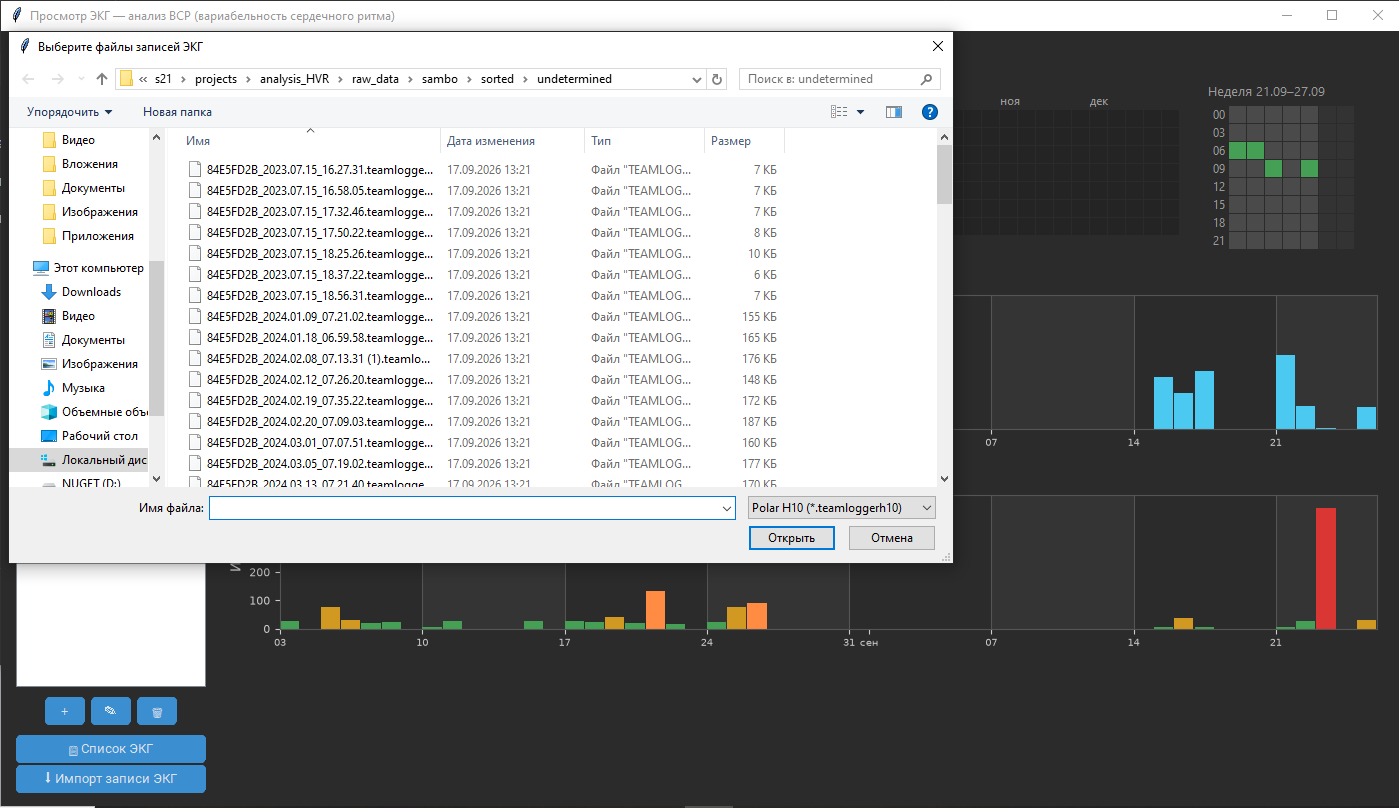
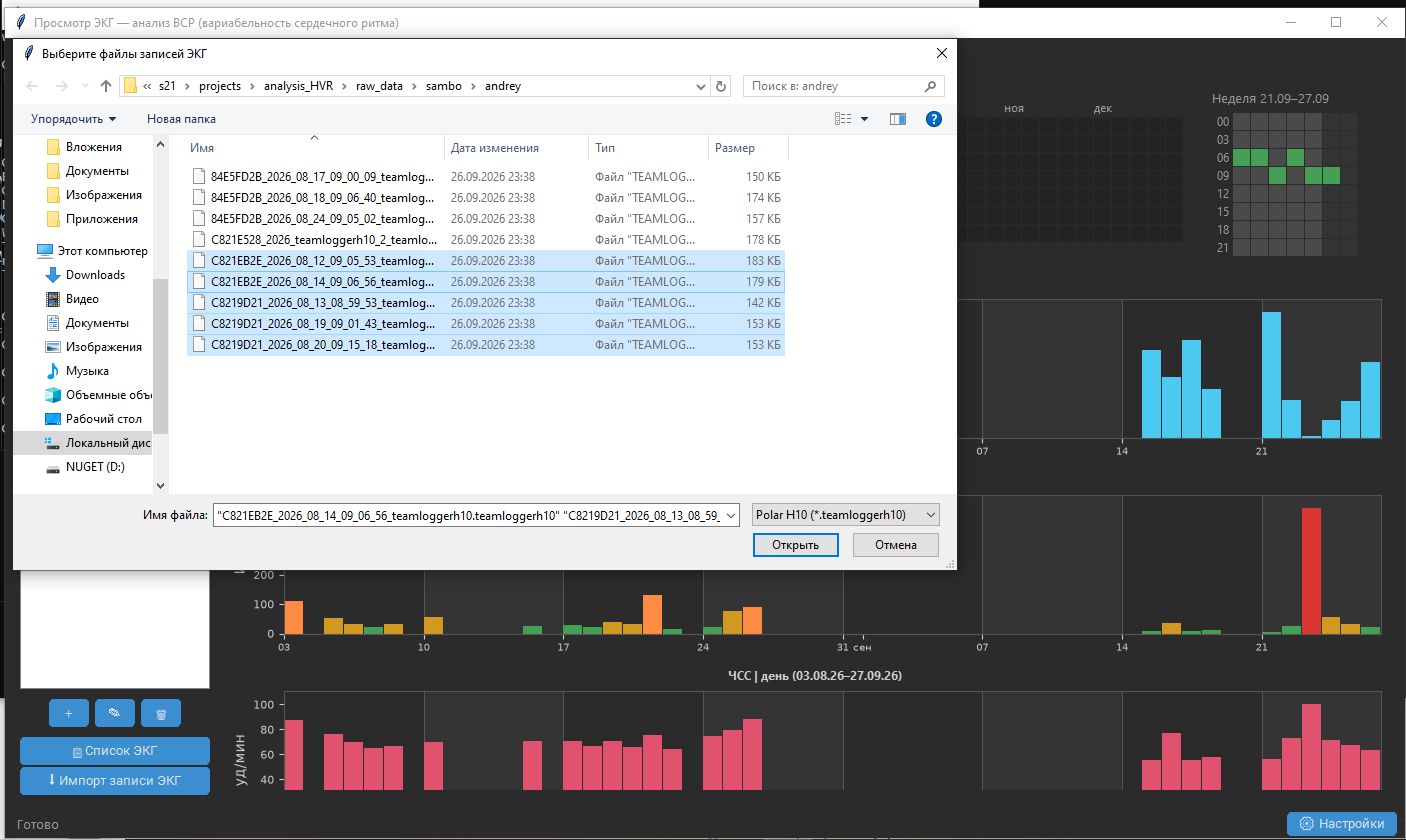
develop_refactor: обновил help

diff --git a/src/dialogs/help.py b/src/dialogs/help.py
@@ -54,17 +54,34 @@ CONTENT = [
     ("img", ("year_heatmap.png", "Годовая тепловая карта")),
     ("img", ("week_heatmap.png", "Недельная тепловая карта")),
 
-    ("h2", "ГРАФИКИ TP И ИНДЕКСА СТРЕССА"),
-    ("p", "Клик, колесо мыши и перетаскивание — масштабирование и перемещение. "
-          "ПКМ (правый клик) — сброс масштаба к диапазону данных."),
-    ("img", ("charts.png", "Графики TP и индекса стресса")),
+    ("h2", "ГРАФИКИ МЕТРИК"),
+    ("p", "Отображаются четыре показателя ВСР: TP, Стресс, ЧСС и RMSSD. "
+          "Колесо мыши — вертикальная прокрутка списка графиков (если они не "
+          "помещаются в окно). ЛКМ + колесо — изменение масштаба по времени "
+          "(зум). ПКМ (правый клик) — сброс масштаба к диапазону данных. "
+          "Перетаскивание левой кнопкой — перемещение по оси времени."),
+    ("img", ("charts.png", "Графики метрик: TP, Стресс, ЧСС, RMSSD")),
+
+    ("h2", "НАСТРОЙКИ МЕТРИК"),
+    ("p", "Кнопка «⚙ Настройки» в правом нижнем углу открывает окно "
+          "«Настройки отображения метрик». Можно отметить, какие метрики "
+          "показывать, и кнопками ▲/▼ изменить их порядок на графиках. "
+          "Изменения применяются после «Сохранить»."),
+    ("img", ("metric_settings.png", "Окно настроек отображения метрик")),
+
+    ("h2", "КОММЕНТАРИИ К МЕТРИКАМ"),
+    ("p", "Двойной клик левой кнопкой по столбику на графике метрики открывает "
+          "окно комментария для этой даты. Комментарий сохраняется в базе и "
+          "показывается: жёлтым треугольником над столбцом, а также в "
+          "всплывающей подсказке при наведении."),
 
     ("h2", "ЖУРНАЛ ЭКГ"),
     ("p", "Колонка «Сходство» — % биологической схожести записи с шаблоном атлета "
           "(низкая подсвечивается: жёлтый < порога, красный < критического). Если "
           "сходство невозможно вычислить, вместо процента стоит короткая причина: "
           "«нет ЭКГ» (в файле только RR, без ЭКГ-сигнала), «нет шаблона» или "
-          "«плохой сигн.». Сортировка — кликом по заголовку или кнопками. "
+          "«плохой сигн.». Сортировка — кликом по заголовку столбца (повторный клик "
+          "меняет направление). "
           "«🎯 Улучшить сходство» открывает список всех атлетов по убыванию схожести "
           "для переназначения записи. «🗑 Удалить» — удалить запись, "
           "«Экспорт в файл» — сохранить raw-данные."),

diff --git a/src/dialogs/ecg_journal.py b/src/dialogs/ecg_journal.py
@@ -38,9 +38,9 @@ class ECGJournal(BaseDialog):
       * последние: limit по времени импорта (updated_at DESC), конкретный атлет
         или все (из главной формы).
 
-    Сортировка — кликом по заголовку любой колонки, а также кнопками
-    «По времени снятия» / «По времени импорта». Записи с низкой биологической
-    схожестью с шаблоном подсвечиваются цветом (< WARN — жёлтым, < CRIT — красным).
+    Сортировка — кликом по заголовку любой колонки (повторный клик меняет
+    направление). Записи с низкой биологической схожестью с шаблоном
+    подсвечиваются цветом (< WARN — жёлтым, < CRIT — красным).
     """
 
     DISPLAY_COLS = ("Атлет", "Прибор", "Время", "Импорт", "Сходство",
@@ -100,10 +100,6 @@ class ECGJournal(BaseDialog):
         self.tree.bind("<<TreeviewSelect>>", self._on_select)
 
         btns = self.make_button_bar(self, pady=6)
-        self.make_button(btns, "По времени снятия", lambda: self._sort_preset("Время", False), width=110,
-                         tooltip="Сортировать по времени снятия записи (по возрастанию)")
-        self.make_button(btns, "По времени импорта", lambda: self._sort_preset("Импорт", True), width=130,
-                         tooltip="Сортировать по времени импорта (по убыванию)")
         self.btn_export = self.make_button(btns, " Экспорт в файл", self._export, width=130, state="disabled",
                                            tooltip="Сохранить сырые данные записи в файл .teamloggerh10")
         self.btn_delete = self.make_button(btns, "🗑 Удалить", self._delete, width=95,
@@ -125,11 +121,6 @@ class ECGJournal(BaseDialog):
         self._load()
 
     # ---------- сортировка ----------
-    def _sort_preset(self, col, desc):
-        self._sort_col = col
-        self._sort_desc = desc
-        self._load()
-
     def _sort_by(self, col):
         """Клик по заголовку: переключает направление либо меняет колонку."""
         if col == self._sort_col:
